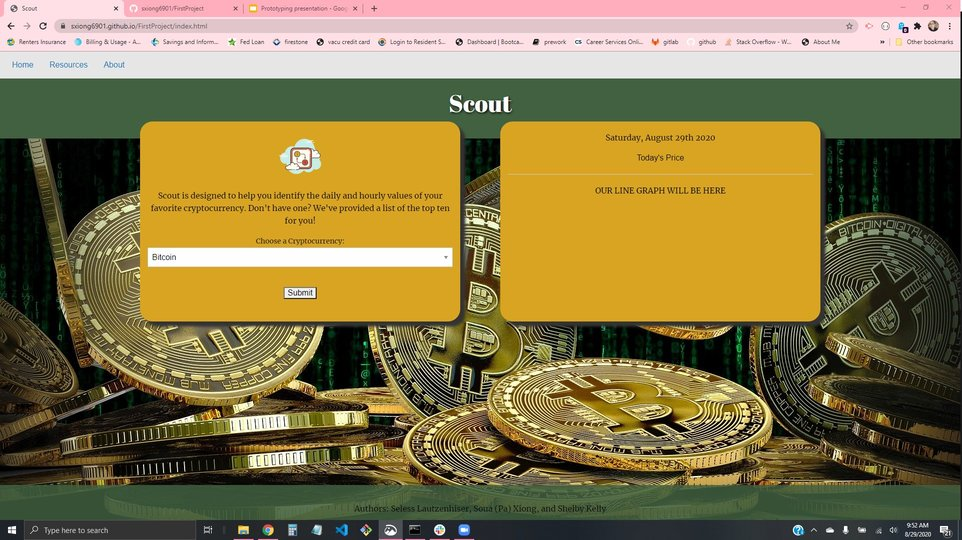
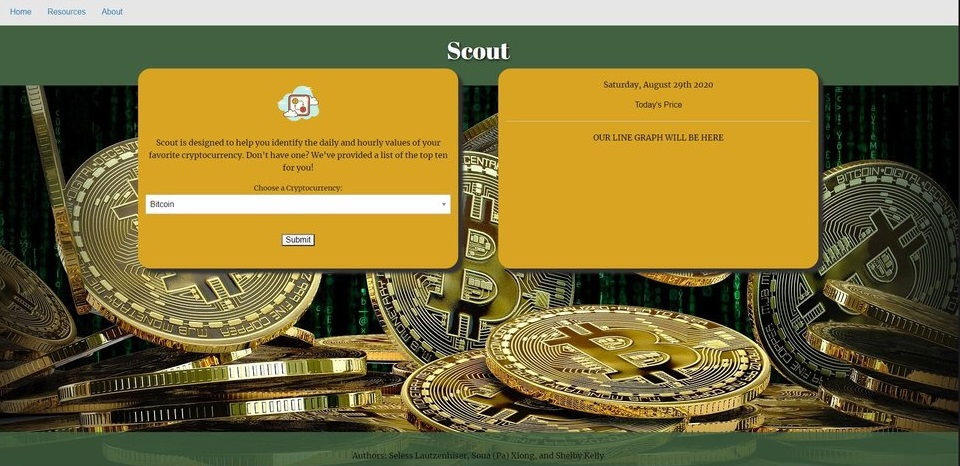
card image polish update

diff --git a/public/css/style.css b/public/css/style.css
@@ -105,6 +105,11 @@ a:hover {
 padding: 5px;
 }
 
+.card-img-top {
+    border-color: gray;
+    border-style: solid;
+}
+
 .card-title {
     font-family: 'Vollkorn SC', serif;
     color: rgb(0, 0, 0);
